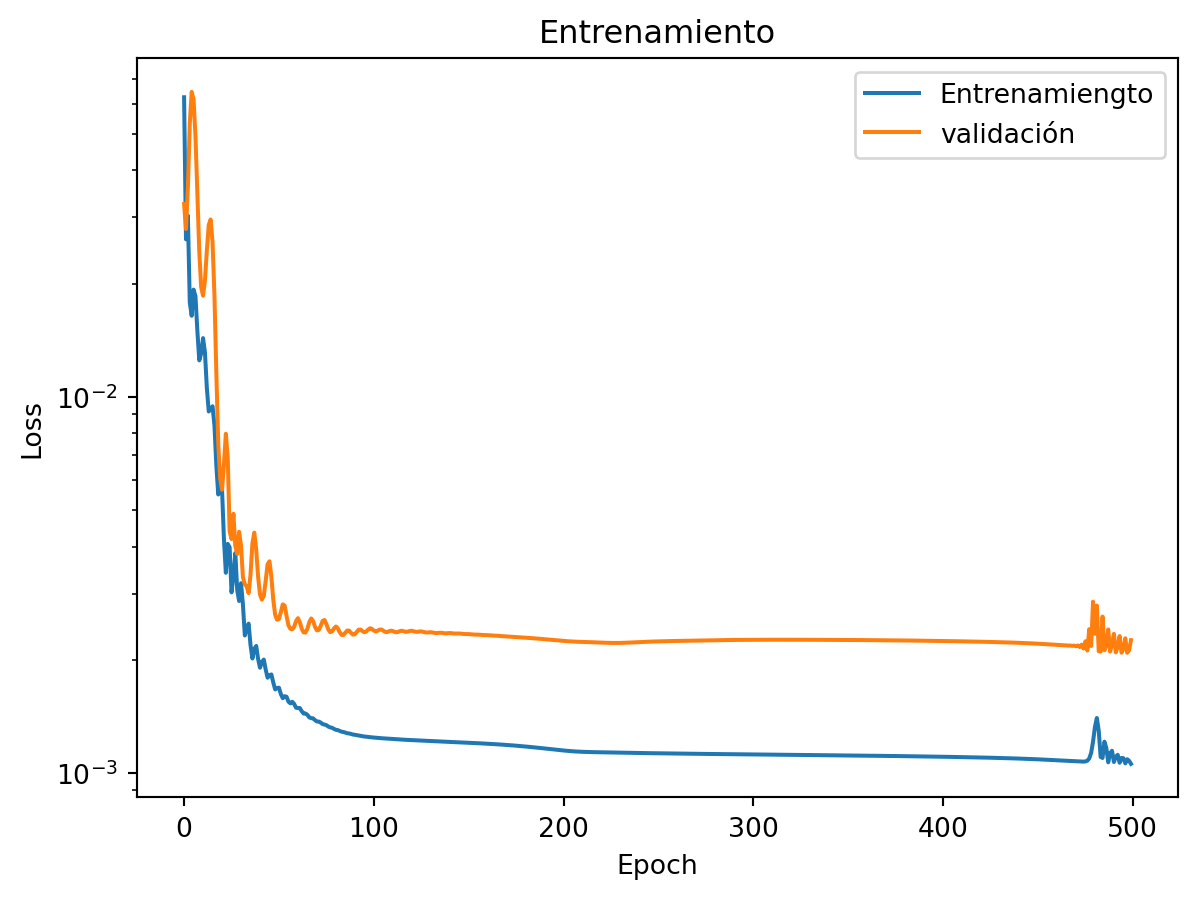
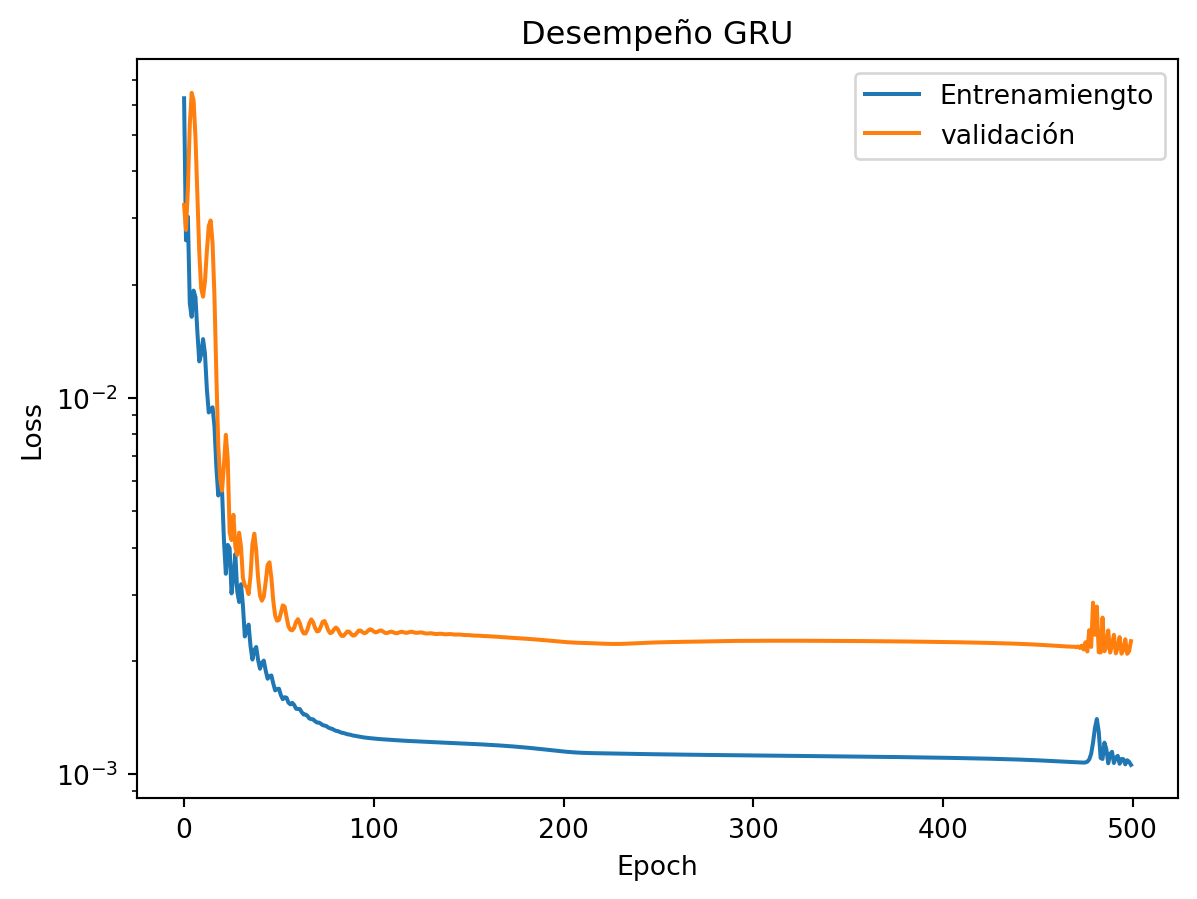
Add files via upload

diff --git a/docs/posts/random_variables/index.html b/docs/posts/random_variables/index.html
@@ -228,10 +228,10 @@ pre > code.sourceCode > span > a:first-child::before { text-decoration: underlin
 <h2 class="anchored" data-anchor-id="fundamentos-previos-a-la-comprensión-de-redes-neuronales">Fundamentos previos a la comprensión de Redes Neuronales</h2>
 <section id="función-de-activación" class="level3">
 <h3 class="anchored" data-anchor-id="función-de-activación">Función de Activación</h3>
-<p>Una función de activación es una función que se agrega a una red neuronal para ayudar a la red a aprender dependencias no lineales complejas. Una función de activación típica debe ser diferenciable y continua en todas partes. A continuación proporcionaremos algunos ejemplos de funciones de activación utilizando la biblioteca <a href="https://pytorch.org/">PyTorch</a>.</p>
+<p>Una función de activación es una función que se agrega a una red neuronal para ayudar a la red a aprender dependencias no lineales complejas. Una función de activación típica debe ser diferenciable y continua en todas partes. A continuación proporcionaré algunos ejemplos de funciones de activación utilizando la biblioteca <a href="https://pytorch.org/">PyTorch</a>.</p>
 <section id="función-relu" class="level4">
 <h4 class="anchored" data-anchor-id="función-relu">Función ReLU</h4>
-<p><code>ReLU</code> o la función ReLU realiza una operacion simple: <span class="math inline">\(y = \max (0, x)\)</span>. Aquí te proporciono un ejemplo de uso de la función ReLU utilizando PyTorch.</p>
+<p><code>ReLU</code> o la función ReLU realiza una operación simple: <span class="math inline">\(y = \max (0, x)\)</span>. Aquí te proporcionó un ejemplo de uso de la función ReLU utilizando <code>PyTorch.</code></p>
 <div class="cell" data-execution_count="1">
 <div class="sourceCode cell-code" id="cb1"><pre class="sourceCode python code-with-copy"><code class="sourceCode python"><span id="cb1-1"><a href="#cb1-1" aria-hidden="true" tabindex="-1"></a><span class="im">import</span> torch</span>
 <span id="cb1-2"><a href="#cb1-2" aria-hidden="true" tabindex="-1"></a><span class="im">import</span> torch.nn <span class="im">as</span> nn</span>
@@ -254,9 +254,9 @@ pre > code.sourceCode > span > a:first-child::before { text-decoration: underlin
 <h4 class="anchored" data-anchor-id="función-sigmoidea">Función Sigmoidea</h4>
 <p>Es una de las funciones de activación no lineal más comunes. La función sigmoidea se representa matemáticamente como:</p>
 <p><span class="math display">\[
-sigmoid(x) = \frac{1}{1 + e^x}
+\sigma(x) = \frac{1}{1 + e^x}
 \]</span></p>
-<p>Al igual que <code>ReLU</code>, la función <code>sigmoidea</code> se puede construir simplemente usando <code>PyTorch</code>.</p>
+<p>Al igual que <code>ReLU</code>, la función <span class="math inline">\(\sigma\)</span> se puede construir simplemente usando <code>PyTorch</code>.</p>
 <div class="cell" data-execution_count="2">
 <div class="sourceCode cell-code" id="cb2"><pre class="sourceCode python code-with-copy"><code class="sourceCode python"><span id="cb2-1"><a href="#cb2-1" aria-hidden="true" tabindex="-1"></a><span class="im">import</span> torch</span>
 <span id="cb2-2"><a href="#cb2-2" aria-hidden="true" tabindex="-1"></a><span class="im">import</span> torch.nn <span class="im">as</span> nn</span>
@@ -277,9 +277,9 @@ sigmoid(x) = \frac{1}{1 + e^x}
 </section>
 <section id="función-tanh" class="level4">
 <h4 class="anchored" data-anchor-id="función-tanh">Función Tanh</h4>
-<p>La función tangente hiperbólica es similar a la función sigmoidea, pero devuelve valores en el rango <span class="math inline">\((-1,1)\)</span>. El beneficio de <code>Tanh</code> sobre <code>Sigmoid</code> es que las entradas negativas se asignarán estrictamente a negativa, y las entradas positivas se asignarán estrictamente a positivas:</p>
+<p>La función tangente hiperbólica es similar a la función sigmoidea, pero devuelve valores en el rango <span class="math inline">\((-1,1)\)</span>. El beneficio de <code>Tanh</code> sobre <span class="math inline">\(\sigma\)</span> es que las entradas negativas se asignarán estrictamente a negativa, y las entradas positivas se asignarán estrictamente a positivas:</p>
 <p><span class="math display">\[
-tanh(x) = \frac{e^x - e^{-x}}{e^x + e^{-x}}
+\tanh(x) = \frac{e^x - e^{-x}}{e^x + e^{-x}}
 \]</span></p>
 <div class="cell" data-execution_count="3">
 <div class="sourceCode cell-code" id="cb3"><pre class="sourceCode python code-with-copy"><code class="sourceCode python"><span id="cb3-1"><a href="#cb3-1" aria-hidden="true" tabindex="-1"></a><span class="im">import</span> torch</span>
@@ -296,9 +296,9 @@ tanh(x) = \frac{e^x - e^{-x}}{e^x + e^{-x}}
 <p><img src="index_files/figure-html/cell-4-output-1.png" width="590" height="431"></p>
 </div>
 </div>
-<p>Las funciones de activación no lineales, como la <code>Sigmoid</code> y <code>Tanh</code>, sufren de un gran problema computacional llamado problema de <strong><em>fuga de gradiente.</em></strong></p>
-<p>La fuga de gradiente hace que sea muy difícil entrenar y ajustar los parámetros de las capas iniciales en la red. Este problema empeora a medida que aumenta el número de capas en la red.</p>
-<p>La fuga de gradiente es la causa principal que hace que las activaciones sigmoideas o Tanh no sean adecuadas para los modelos de Deep Learning (aprendizaje profundo). La función de activación <code>ReLU</code> no sufre de gradiente de desaparición porque la derivada siempre es 1 para entradas positivas. Así que siempre considere usar ReLU como la función de activación en los primeros borradores del diseño de su modelo.<br>
+<p>Las funciones de activación no lineales, como la <span class="math inline">\(\sigma\)</span> y <span class="math inline">\(\tanh\)</span> sufren de un gran problema computacional llamado problema de <strong><em>fuga de gradiente.</em></strong></p>
+<p>La <strong><em>fuga de gradiente</em></strong> hace que sea muy difícil entrenar y ajustar los parámetros de las capas iniciales en la red. Este problema empeora a medida que aumenta el número de capas en la red.</p>
+<p>La fuga de gradiente es la causa principal que hace que las activaciones sigmoideas o Tanh no sean adecuadas para los modelos de Deep Learning (aprendizaje profundo). La función de activación <code>ReLU</code> no sufre de gradiente de fuga porque la derivada siempre es 1 para entradas positivas. Así que siempre considere usar <code>ReLU</code> como la función de activación en los primeros borradores del diseño de su modelo.<br>
 <br>
 La creación de una arquitectura de red neuronal que se adapte más a un problema en particular es un arte. Existe una dirección de estudio separada en el aprendizaje profundo llamado <em><code>Búsqueda de arquitectura neural</code></em>, que automatiza la ingeniería de arquitectura de red: <a href="https://lilianweng.github.io/lil-log/2020/08/06/neural-architecture-search.html." class="uri">https://lilianweng.github.io/lil-log/2020/08/06/neural-architecture-search.html.</a> Pero incluso estos motores de búsqueda no pueden competir con las habilidades heurísticas humanas en el diseño todavía. Existen algunas técnicas que aumentan la probabilidad de mejorar el rendimiento de la red neuronal. Por supuesto, estas técnicas no garantizan la mejora en todos los casos. A veces incluso pueden empeorar el rendimiento de la red neuronal. Pero es probable que desarrolle una arquitectura de modelo robusta siguiendo estos enfoques.</p>
 </section>
@@ -367,7 +367,7 @@ smooth\_loss(y^{\prime},y) = \frac{1}{n}\sum z_i
 </ul>
 <section id="recurrent-neural-network-rnn" class="level3">
 <h3 class="anchored" data-anchor-id="recurrent-neural-network-rnn">Recurrent Neural Network (RNN)</h3>
-<p>RNN tiene un concepto de un estado oculto. Un estado oculto puede tratarse como memoria interna. El estado oculto no intenta recordar todos los valores pasados de la secuencia sino solo su efecto. Debido a la memoria interna, las RNN pueden recordar cosas importantes sobre su entrada, lo que les permite ser muy preciosos para predecir valores futuros.</p>
+<p>RNN <em>(Red Neuronal Recurrente Estándar)</em> tiene un concepto de un estado oculto. Un estado oculto puede tratarse como memoria interna. El estado oculto no intenta recordar todos los valores pasados de la secuencia sino solo su efecto. Debido a la memoria interna, las RNN pueden recordar cosas importantes sobre su entrada, lo que les permite ser muy preciosos para predecir valores futuros.</p>
 <p>Estudiemos la teoría de RNN de una manera más formal. En RNN, la secuencia de entrada se representa a traves de un bucle. Cuando toma una decisión, considera la entrada actual y también lo que ha aprendido de las entradas que recibio anteriormente. Veamos el gráfico computacional de RNN para comprender esta lógica:</p>
 <div class="quarto-figure quarto-figure-center">
 <figure class="figure">
@@ -388,7 +388,7 @@ smooth\_loss(y^{\prime},y) = \frac{1}{n}\sum z_i
 <figcaption class="figure-caption">Gráfico computacional de RNN Cell</figcaption>
 </figure>
 </div>
-<p>La RNN Cell combina información sobre el valor actual de la secuencia <span class="math inline">\(x_i\)</span> y el estado previamente oculto <span class="math inline">\(h_{i-1}\)</span>. La célula RNN devuelve un estado oculto actualizado <span class="math inline">\(h_i\)</span> después de aplicar la función de activación.</p>
+<p>La RNN Cell combina información sobre el valor actual de la secuencia <span class="math inline">\(x_i\)</span> y el estado previamente oculto <span class="math inline">\(h_{i-1}\)</span>. La RNN Cell, devuelve un estado oculto actualizado <span class="math inline">\(h_i\)</span> después de aplicar la función de activación.</p>
 <p>La RNN tiene los siguientes parámetros, que se ajustan durante el entrenamiento:</p>
 <ul>
 <li><p><span class="math inline">\(W_{ih}\)</span> pesos ocultos de entrada</p></li>
@@ -396,7 +396,7 @@ smooth\_loss(y^{\prime},y) = \frac{1}{n}\sum z_i
 <li><p><span class="math inline">\(W_{hh}\)</span> pesos ocultos - ocultos</p></li>
 <li><p><span class="math inline">\(B_{hh}\)</span> sesgos oculto - oculto</p></li>
 </ul>
-<p>Nota: Un error común ocurre cuando los subíndices en los parámetros RNN <span class="math inline">\((W_{ih}, b_{ih}, W_{hh}, b_{hh})\)</span> se interpretan como una dimensión de índice o tensor. No, son solo la abreviatura de entrada-oculto <span class="math inline">\((h_í)\)</span> y oculto-oculto <span class="math inline">\((h)\)</span>. El mismo principio aplica a los parámetros de otros modelos: <code>GRU</code> y <code>LSTM</code>.</p>
+<p><strong><em>Nota:</em></strong> <em>Un error común ocurre cuando los subíndices en los parámetros RNN</em> <span class="math inline">\((W_{ih}, b_{ih}, W_{hh}, b_{hh})\)</span> <em>se interpretan como una dimensión de índice o tensor. No, son solo la abreviatura de entrada-oculto</em> <span class="math inline">\((h_í)\)</span> <em>y oculto-oculto</em> <span class="math inline">\((h)\)</span><em>. El mismo principio aplica a los parámetros de otros modelos: <code>GRU</code> y <code>LSTM</code>.</em></p>
 <p>En ocasiones, los cientificos de datos utilizan la siguiente representación de las RNN:</p>
 <div class="quarto-figure quarto-figure-center">
 <figure class="figure">
@@ -406,7 +406,7 @@ smooth\_loss(y^{\prime},y) = \frac{1}{n}\sum z_i
 </div>
 <p>El gráfico que se muestra puede dar lugar a algunos malentendidos, y estoy tratando de evitar esto. Pero si este tipo de gráfico se adapta a tu intuición, entonces úsalo sin ninguna duda.<br>
 </p>
-<p>Ahora estamos listos para examinar una implementación de RNN utilizando <code>PyTorch</code>.</p>
+<p>Ahora estamos listos para examinar una implementación de RNN utilizando <a href="https://pytorch.org/">PyTorch</a></p>
 <div class="cell" data-execution_count="5">
 <div class="sourceCode cell-code" id="cb6"><pre class="sourceCode python code-with-copy"><code class="sourceCode python"><span id="cb6-1"><a href="#cb6-1" aria-hidden="true" tabindex="-1"></a><span class="im">import</span> torch.nn <span class="im">as</span> nn</span>
 <span id="cb6-2"><a href="#cb6-2" aria-hidden="true" tabindex="-1"></a></span>
@@ -522,7 +522,7 @@ smooth\_loss(y^{\prime},y) = \frac{1}{n}\sum z_i
 <span id="cb8-71"><a href="#cb8-71" aria-hidden="true" tabindex="-1"></a>model <span class="op">=</span> RNN(hidden_size <span class="op">=</span> rnn_hidden_size)</span>
 <span id="cb8-72"><a href="#cb8-72" aria-hidden="true" tabindex="-1"></a>model.train()</span></code><button title="Copy to Clipboard" class="code-copy-button"><i class="bi"></i></button></pre></div>
 <div class="cell-output cell-output-stderr">
-<pre><code>C:\Users\juani\AppData\Local\Temp\ipykernel_15172\1156180628.py:50: UserWarning:
+<pre><code>C:\Users\juani\AppData\Local\Temp\ipykernel_22356\1156180628.py:50: UserWarning:
 
 Creating a tensor from a list of numpy.ndarrays is extremely slow. Please consider converting the list to a single numpy.ndarray with numpy.array() before converting to a tensor. (Triggered internally at  C:\b\abs_bao0hdcrdh\croot\pytorch_1675190257512\work\torch\csrc\utils\tensor_new.cpp:204.)
 </code></pre>
@@ -597,7 +597,7 @@ epoch 450: train - 0.0012, val: - 0.0024</code></pre>
 <span id="cb13-13"><a href="#cb13-13" aria-hidden="true" tabindex="-1"></a>    predicted.append(unscaled)</span>
 <span id="cb13-14"><a href="#cb13-14" aria-hidden="true" tabindex="-1"></a></span>
 <span id="cb13-15"><a href="#cb13-15" aria-hidden="true" tabindex="-1"></a>real <span class="op">=</span> scaler.inverse_transform(y_test.tolist())</span>
-<span id="cb13-16"><a href="#cb13-16" aria-hidden="true" tabindex="-1"></a>plt.title(<span class="st">"conjutno de datos prueba"</span>)</span>
+<span id="cb13-16"><a href="#cb13-16" aria-hidden="true" tabindex="-1"></a>plt.title(<span class="st">"Conjunto de datos prueba - RNN"</span>)</span>
 <span id="cb13-17"><a href="#cb13-17" aria-hidden="true" tabindex="-1"></a>plt.plot(real, label <span class="op">=</span> <span class="st">'real'</span>)</span>
 <span id="cb13-18"><a href="#cb13-18" aria-hidden="true" tabindex="-1"></a>plt.plot(predicted, label <span class="op">=</span> <span class="st">'predicción'</span>)</span>
 <span id="cb13-19"><a href="#cb13-19" aria-hidden="true" tabindex="-1"></a>plt.legend()</span>
@@ -609,7 +609,7 @@ epoch 450: train - 0.0012, val: - 0.0024</code></pre>
 <p>RNN muestra un gran rendimiento en el conjunto de datos de prueba. El modelo que hemos entrenado predice picos estacionales con mucha precisión.</p>
 <p>Y finalmente, examinamos el proceso de entrenamiento en sí.</p>
 <div class="cell" data-execution_count="10">
-<div class="sourceCode cell-code" id="cb14"><pre class="sourceCode python code-with-copy"><code class="sourceCode python"><span id="cb14-1"><a href="#cb14-1" aria-hidden="true" tabindex="-1"></a>plt.title(<span class="st">'Entrenamiento'</span>)</span>
+<div class="sourceCode cell-code" id="cb14"><pre class="sourceCode python code-with-copy"><code class="sourceCode python"><span id="cb14-1"><a href="#cb14-1" aria-hidden="true" tabindex="-1"></a>plt.title(<span class="st">'Desempeño RNN'</span>)</span>
 <span id="cb14-2"><a href="#cb14-2" aria-hidden="true" tabindex="-1"></a>plt.yscale(<span class="st">'log'</span>)</span>
 <span id="cb14-3"><a href="#cb14-3" aria-hidden="true" tabindex="-1"></a>plt.plot(training_loss, label <span class="op">=</span> <span class="st">'Entrenamiento'</span>)</span>
 <span id="cb14-4"><a href="#cb14-4" aria-hidden="true" tabindex="-1"></a>plt.plot(validation_loss, label <span class="op">=</span> <span class="st">'validación'</span>)</span>
@@ -618,14 +618,14 @@ epoch 450: train - 0.0012, val: - 0.0024</code></pre>
 <span id="cb14-7"><a href="#cb14-7" aria-hidden="true" tabindex="-1"></a>plt.legend()</span>
 <span id="cb14-8"><a href="#cb14-8" aria-hidden="true" tabindex="-1"></a>plt.show()</span></code><button title="Copy to Clipboard" class="code-copy-button"><i class="bi"></i></button></pre></div>
 <div class="cell-output cell-output-display">
-<p><img src="index_files/figure-html/cell-11-output-1.png" width="599" height="449"></p>
+<p><img src="index_files/figure-html/cell-11-output-1.png" width="599" height="450"></p>
 </div>
 </div>
 <p>El proceso del entrenamiento es suave sin picos agudos e impredecibles.</p>
 <p>Ahora, podemos establecer con confianza la promesa y la efectividad de la aplicación de RNN a los problemas de pronósticos de la serie temporal.</p>
 <p>A pesar de todas las ventajas de RNN, tiene desventajas significativas:</p>
 <ul>
-<li><p>Debido a la complejidad computacional, sufren problemas de gradiente de fuga. El proceso de entrenamiento se vuelve demasiado lento. El problema del gradient e de fuga es un problema común a todas las RNN.</p></li>
+<li><p>Debido a la complejidad computacional, sufren problemas de gradiente de fuga. El proceso de entrenamiento se vuelve demasiado lento. El problema del gradiente de fuga es un problema común a todas las RNN.</p></li>
 <li><p>El estado oculto se actualiza en cada iteración, lo que dificulta el almacenamiento de información a largo plazo en RNN. Las arquitecturas <code>GRU</code> y <code>LSTM</code> resuelven este problema. Tienen enfoques similares sobre cómo almacenar información a largo plazo.</p></li>
 </ul>
 </section>
@@ -776,7 +776,7 @@ epoch 450: train - 0.0011, val: - 0.0022</code></pre>
 </div>
 <div class="cell" data-execution_count="12">
 <div class="sourceCode cell-code" id="cb17"><pre class="sourceCode python code-with-copy"><code class="sourceCode python"><span id="cb17-1"><a href="#cb17-1" aria-hidden="true" tabindex="-1"></a>real <span class="op">=</span> scaler.inverse_transform(y_test.tolist())</span>
-<span id="cb17-2"><a href="#cb17-2" aria-hidden="true" tabindex="-1"></a>plt.title(<span class="st">"conjutno de datos prueba"</span>)</span>
+<span id="cb17-2"><a href="#cb17-2" aria-hidden="true" tabindex="-1"></a>plt.title(<span class="st">"Conjunto de datos prueba - GRU"</span>)</span>
 <span id="cb17-3"><a href="#cb17-3" aria-hidden="true" tabindex="-1"></a>plt.plot(real, label <span class="op">=</span> <span class="st">'real'</span>)</span>
 <span id="cb17-4"><a href="#cb17-4" aria-hidden="true" tabindex="-1"></a>plt.plot(predicted, label <span class="op">=</span> <span class="st">'predicción'</span>)</span>
 <span id="cb17-5"><a href="#cb17-5" aria-hidden="true" tabindex="-1"></a>plt.legend()</span>
@@ -787,7 +787,7 @@ epoch 450: train - 0.0011, val: - 0.0022</code></pre>
 </div>
 <p>Vemos que el modelo <code>GRU</code> imita el comportamiento original de la serie temporal con bastante precisión.</p>
 <div class="cell" data-execution_count="13">
-<div class="sourceCode cell-code" id="cb18"><pre class="sourceCode python code-with-copy"><code class="sourceCode python"><span id="cb18-1"><a href="#cb18-1" aria-hidden="true" tabindex="-1"></a>plt.title(<span class="st">'Entrenamiento'</span>)</span>
+<div class="sourceCode cell-code" id="cb18"><pre class="sourceCode python code-with-copy"><code class="sourceCode python"><span id="cb18-1"><a href="#cb18-1" aria-hidden="true" tabindex="-1"></a>plt.title(<span class="st">'Desempeño GRU'</span>)</span>
 <span id="cb18-2"><a href="#cb18-2" aria-hidden="true" tabindex="-1"></a>plt.yscale(<span class="st">'log'</span>)</span>
 <span id="cb18-3"><a href="#cb18-3" aria-hidden="true" tabindex="-1"></a>plt.plot(training_loss, label <span class="op">=</span> <span class="st">'Entrenamiengto'</span>)</span>
 <span id="cb18-4"><a href="#cb18-4" aria-hidden="true" tabindex="-1"></a>plt.plot(validation_loss, label <span class="op">=</span> <span class="st">'validación'</span>)</span>
@@ -796,7 +796,7 @@ epoch 450: train - 0.0011, val: - 0.0022</code></pre>
 <span id="cb18-7"><a href="#cb18-7" aria-hidden="true" tabindex="-1"></a>plt.legend()</span>
 <span id="cb18-8"><a href="#cb18-8" aria-hidden="true" tabindex="-1"></a>plt.show()</span></code><button title="Copy to Clipboard" class="code-copy-button"><i class="bi"></i></button></pre></div>
 <div class="cell-output cell-output-display">
-<p><img src="index_files/figure-html/cell-14-output-1.png" width="599" height="449"></p>
+<p><img src="index_files/figure-html/cell-14-output-1.png" width="599" height="450"></p>
 </div>
 </div>
 <p>Las pérdidas de entrenamiento y validación tienen descenso asintótico con un brecha natural constante entre ellas. Podemos concluir que el modelo realmente aprende el comportamiento de la serie temporal.</p>
@@ -983,7 +983,7 @@ epoch 90: train - 0.0014, val: - 0.0019</code></pre>
 <span id="cb23-15"><a href="#cb23-15" aria-hidden="true" tabindex="-1"></a>        predicted.append(unscaled)</span>
 <span id="cb23-16"><a href="#cb23-16" aria-hidden="true" tabindex="-1"></a>        </span>
 <span id="cb23-17"><a href="#cb23-17" aria-hidden="true" tabindex="-1"></a>real <span class="op">=</span> scaler.inverse_transform(y_test.tolist())</span>
-<span id="cb23-18"><a href="#cb23-18" aria-hidden="true" tabindex="-1"></a>plt.title(<span class="st">"Conjunto de prueba"</span>)</span>
+<span id="cb23-18"><a href="#cb23-18" aria-hidden="true" tabindex="-1"></a>plt.title(<span class="st">"Conjunto de prueba - LSTM"</span>)</span>
 <span id="cb23-19"><a href="#cb23-19" aria-hidden="true" tabindex="-1"></a>plt.plot(real, label <span class="op">=</span> <span class="st">'real'</span>)</span>
 <span id="cb23-20"><a href="#cb23-20" aria-hidden="true" tabindex="-1"></a>plt.plot(predicted, label <span class="op">=</span> <span class="st">'predicción'</span>)</span>
 <span id="cb23-21"><a href="#cb23-21" aria-hidden="true" tabindex="-1"></a>plt.legend()</span>
@@ -994,7 +994,7 @@ epoch 90: train - 0.0014, val: - 0.0019</code></pre>
 </div>
 <p>LSTM captura muy bien el comportamiento de las series temporales para hacer predicciones precisas.</p>
 <div class="cell" data-execution_count="18">
-<div class="sourceCode cell-code" id="cb24"><pre class="sourceCode python code-with-copy"><code class="sourceCode python"><span id="cb24-1"><a href="#cb24-1" aria-hidden="true" tabindex="-1"></a>plt.title(<span class="st">'Entrenamiento'</span>)</span>
+<div class="sourceCode cell-code" id="cb24"><pre class="sourceCode python code-with-copy"><code class="sourceCode python"><span id="cb24-1"><a href="#cb24-1" aria-hidden="true" tabindex="-1"></a>plt.title(<span class="st">'Desempeño LSTM'</span>)</span>
 <span id="cb24-2"><a href="#cb24-2" aria-hidden="true" tabindex="-1"></a>plt.yscale(<span class="st">'log'</span>)</span>
 <span id="cb24-3"><a href="#cb24-3" aria-hidden="true" tabindex="-1"></a>plt.plot(training_loss, label <span class="op">=</span> <span class="st">'Entrenamiento'</span>)</span>
 <span id="cb24-4"><a href="#cb24-4" aria-hidden="true" tabindex="-1"></a>plt.plot(validation_loss, label <span class="op">=</span> <span class="st">'validación'</span>)</span>
@@ -1003,7 +1003,7 @@ epoch 90: train - 0.0014, val: - 0.0019</code></pre>
 <span id="cb24-7"><a href="#cb24-7" aria-hidden="true" tabindex="-1"></a>plt.legend()</span>
 <span id="cb24-8"><a href="#cb24-8" aria-hidden="true" tabindex="-1"></a>plt.show()</span></code><button title="Copy to Clipboard" class="code-copy-button"><i class="bi"></i></button></pre></div>
 <div class="cell-output cell-output-display">
-<p><img src="index_files/figure-html/cell-19-output-1.png" width="599" height="449"></p>
+<p><img src="index_files/figure-html/cell-19-output-1.png" width="599" height="450"></p>
 </div>
 </div>
 <p>Mirando, concluimos que detuvimos el proceso de entrenamiento demasiado temprano. Obtenemos modelos más precisos si establecemos más epocas (epoch) para el entrenamiento.</p>
